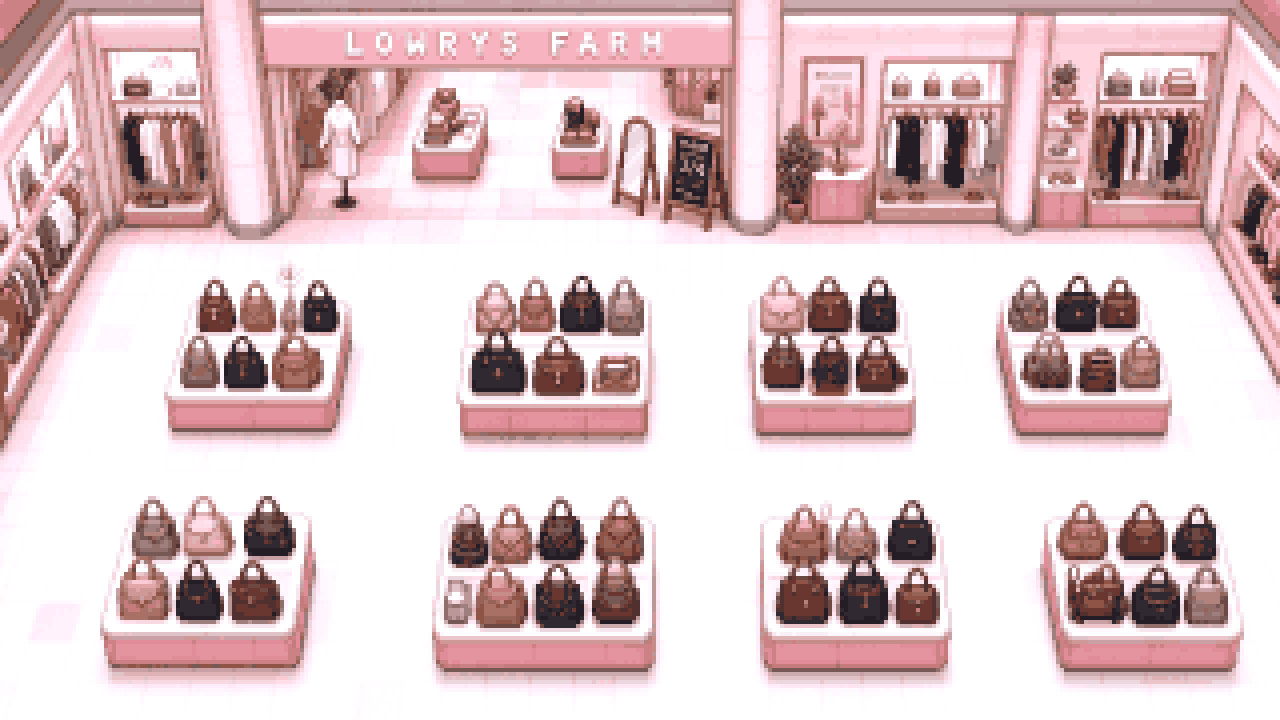
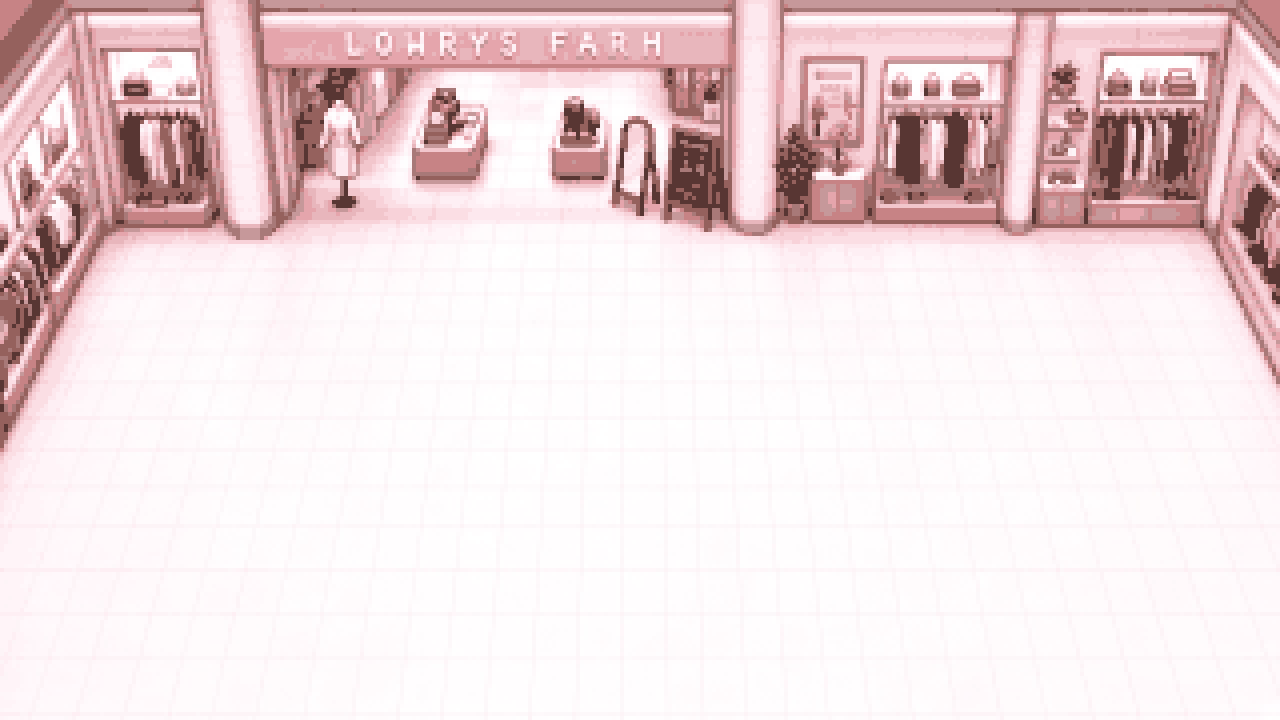
Separate raised furniture layers, add living room, drop plaza duplicate (#13)
- Add living_room.png and wire epilogue party onto the 客廳 map
- Split boutique into empty floor + boutique_shelves.png (one raised object)
- Split yakiniku tables/chairs into yakiniku_furniture.png (one raised object)
- Remove identical big_city_plaza_walkable.png; point plaza at big_city_plaza.png

diff --git a/js/vistas.js b/js/vistas.js
@@ -7,18 +7,22 @@
 import { MAP, tileStyle, tileBottom, tileLeft, wantsGridOverlay } from "./map.js";
 
 const ART = {
-  plaza: "assets/art/scenes/big_city_plaza_walkable.png",
+  plaza: "assets/art/scenes/big_city_plaza.png",
   circus: "assets/art/scenes/pop_circus.png",
   boutique: "assets/art/scenes/boutique_floor.png",
   bbq: "assets/art/scenes/yakiniku_interior.png",
   stairs: "assets/art/scenes/campus_stairs.png",
   bedroom: "assets/art/scenes/bedroom_future.png",
+  living: "assets/art/scenes/living_room.png",
   props: {
     shelfIsland: "assets/art/props/shelf_island.png",
     shelfWall: "assets/art/props/shelf_wall.png",
     bbqTable: "assets/art/props/bbq_table.png",
     chair: "assets/art/props/chair.png",
     displayTable: "assets/art/props/display_table.png",
+    /** Full-map raised furniture layers (all shelves / all tables+chairs). */
+    boutiqueShelves: "assets/art/props/boutique_shelves.png",
+    yakinikuFurniture: "assets/art/props/yakiniku_furniture.png",
   },
   gf: {
     down: ["assets/art/couple/girlfriend/stand_down.png", "assets/art/couple/girlfriend/stand_down_f2.png"],
@@ -113,6 +117,12 @@ function prop(src, className, col, row, scale = 1) {
   return `<img class="prop ${className}" src="${src}" alt="" draggable="false"
     data-col="${col}" data-row="${row}"
     style="${tileStyle(col, row)} --scale:${scale}; z-index:${depthZ(row)}" />`;
+}
+
+/** Full-frame raised furniture layer (1280×720 RGBA), sits above floor / below actors. */
+function layerProp(src, className = "prop--layer") {
+  return `<img class="prop ${className}" src="${src}" alt="" draggable="false"
+    style="left:0; bottom:0; width:100%; height:100%; transform:none; z-index:12" />`;
 }
 
 function wireIdle(root, ms = 520) {
@@ -224,14 +234,9 @@ const builders = {
         return prop(ART.icons[g] || ART.icons.bags, `prop--gift g${i}`, col, row, 0.65);
       })
       .join("");
-    const furniture =
-      prop(ART.props.displayTable, "prop--furn", 8, 9, 1.8) +
-      prop(ART.props.displayTable, "prop--furn", 14, 9, 1.8) +
-      prop(ART.props.displayTable, "prop--furn", 20, 9, 1.8) +
-      prop(ART.props.displayTable, "prop--furn", 11, 12, 1.8) +
-      prop(ART.props.displayTable, "prop--furn", 17, 12, 1.8);
+    // Floor empty; all display shelves are one raised layer object.
     const actors =
-      furniture +
+      layerProp(ART.props.boutiqueShelves, "prop--layer prop--shelves") +
       actor(ART.pass1, "npc", 4, 14, 0.8) +
       actor(ART.bf.down, "hero", 14, 15, 1) +
       actor(ART.gf.down, "hero hero--happy", 17, 15, 1) +
@@ -242,11 +247,8 @@ const builders = {
   },
 
   "shopping-stroll"() {
-    const furniture =
-      prop(ART.props.displayTable, "prop--furn", 8, 10, 1.8) +
-      prop(ART.props.displayTable, "prop--furn", 22, 10, 1.8);
     const actors =
-      furniture +
+      layerProp(ART.props.boutiqueShelves, "prop--layer prop--shelves") +
       actor(ART.pass2, "npc", 23, 13, 0.8) +
       actor(ART.hug, "hero hero--together", 15, 14, 1.35);
     const root = mapShell(ART.boutique, actors, "vista--boutique vista--stroll");
@@ -255,18 +257,9 @@ const builders = {
   },
 
   bbq() {
-    // Empty floor + table/chair props; couple sits in front of a table (higher row).
-    const furniture =
-      prop(ART.props.bbqTable, "prop--furn prop--table", 8, 7, 2.1) +
-      prop(ART.props.bbqTable, "prop--furn prop--table", 16, 7, 2.1) +
-      prop(ART.props.bbqTable, "prop--furn prop--table", 24, 7, 2.1) +
-      prop(ART.props.bbqTable, "prop--furn prop--table", 8, 12, 2.1) +
-      prop(ART.props.bbqTable, "prop--furn prop--table", 24, 12, 2.1) +
-      prop(ART.props.chair, "prop--furn prop--chair", 6, 8, 0.9) +
-      prop(ART.props.chair, "prop--furn prop--chair", 14, 8, 0.9) +
-      prop(ART.props.chair, "prop--furn prop--chair", 22, 8, 0.9);
+    // Empty floor + one raised tables/chairs object; couple sits in front aisle.
     const actors =
-      furniture +
+      layerProp(ART.props.yakinikuFurniture, "prop--layer prop--bbq-set") +
       actor(ART.clerkBbq, "npc npc--clerk", 3, 9, 0.95) +
       actor(ART.pass1, "npc", 28, 10, 0.78) +
       actor([ART.bf.sit], "hero hero--sit", 14, 14, 1.05) +
@@ -329,14 +322,15 @@ const builders = {
   },
 
   epilogue() {
-    return el(`<div class="vista vista--epi">
-      <div class="epi-party" id="epi-party">
-        <div class="party-cast">
-          <img src="${ART.mom.down[0]}" alt="" />
-          <img src="${ART.kid.holdCake}" alt="" />
-          <img src="assets/art/icons/hearts/heart_cake.png" class="party-cake" alt="" />
-        </div>
-      </div>
+    // Living-room map as the party stage, then present/phone overlays.
+    const party =
+      actor(ART.mom.down, "hero epi-mom", 12, 12, 1.15) +
+      actor([ART.kid.holdCake], "hero epi-kid", 16, 12, 1.05) +
+      actor(ART.bf.down, "hero", 20, 13, 1) +
+      actor(ART.gf.down, "hero", 22, 13, 1);
+    const root = mapShell(
+      ART.living,
+      `<div class="epi-party" id="epi-party">${party}</div>
       <div class="epi-present" id="epi-present" hidden>
         <img class="present-hug" src="${ART.hug[1]}" alt="" />
         <div class="phone-back" id="phone-back">
@@ -347,8 +341,11 @@ const builders = {
       <div class="voucher" id="epi-voucher" hidden>
         <p>✦ Apple 兌換券 ✦</p>
         <small>週末有個小驚喜…或許是新手機？</small>
-      </div>
-    </div>`);
+      </div>`,
+      "vista--epi vista--living"
+    );
+    wireIdle(root);
+    return root;
   },
 
   "beach-card"() {

diff --git a/style.css b/style.css
@@ -339,6 +339,29 @@ body {
   pointer-events: none;
 }
 
+.prop--layer {
+  left: 0 !important;
+  bottom: 0 !important;
+  width: 100% !important;
+  height: 100% !important;
+  max-width: none;
+  transform: none !important;
+  object-fit: fill;
+  filter: drop-shadow(0 4px 0 rgba(0, 0, 0, 0.22));
+  pointer-events: none;
+  image-rendering: pixelated;
+  image-rendering: crisp-edges;
+}
+
+.vista--living .map-dim {
+  background: linear-gradient(
+    180deg,
+    rgba(255, 230, 200, 0.1) 0%,
+    transparent 42%,
+    rgba(20, 12, 10, 0.3) 100%
+  );
+}
+
 .prop--island {
   width: calc(88px * var(--scale, 1));
 }
@@ -414,8 +437,7 @@ body {
 .epi-party {
   position: absolute;
   inset: 0;
-  display: grid;
-  place-items: center;
+  pointer-events: none;
   transition: transform 0.9s ease, opacity 0.9s ease;
 }
 

diff --git a/index.html b/index.html
@@ -10,7 +10,7 @@
     <meta name="apple-mobile-web-app-capable" content="yes" />
     <meta http-equiv="Cache-Control" content="no-cache, no-store, must-revalidate" />
     <title>Ann Birthday Game 2026</title>
-    <link rel="stylesheet" href="style.css?v=20261123bright" />
+    <link rel="stylesheet" href="style.css?v=20261124assets" />
   </head>
   <body>
     <main id="stage" class="stage" aria-live="polite">
@@ -92,6 +92,6 @@
       <aside id="debug" class="debug" hidden></aside>
     </main>
 
-    <script type="module" src="js/main.js?v=20261122m"></script>
+    <script type="module" src="js/main.js?v=20261124assets"></script>
   </body>
 </html>

diff --git a/js/audio.js b/js/audio.js
@@ -29,6 +29,7 @@ const VISTA_TRACK = {
   "future-room": "cozy",
   epilogue: "cozy",
   "beach-card": "overall",
+  living: "cozy",
 };
 
 let muted = false;

diff --git a/assets/art/scenes/README.md b/assets/art/scenes/README.md
@@ -19,68 +19,28 @@ All furniture / landmarks must snap to whole tiles. Runtime placement uses `js/m
 | File | Scene |
 |------|--------|
 | `big_city_plaza.png` | Hsinchu Big City night plaza + Christmas |
-| `big_city_plaza_walkable.png` | Same plaza, open walk floor |
-| `yakiniku_interior.png` | BBQ restaurant (style / angle **source of truth**) |
+| `yakiniku_interior.png` | BBQ restaurant floor (tables/chairs are a separate raised layer) |
 | `pop_circus.png` | B1 POP CIRCUS / 星·奇·市 blind-box store |
-| `boutique_floor.png` | Big City 1F accessory boutique |
+| `boutique_floor.png` | Big City 1F accessory boutique **floor only** (shelves separated) |
 | `campus_stairs.png` | Campus courtyard — lower stairs + landing |
 | `bedroom_future.png` | Future bedroom — center bed, right door (finale) |
-| `preview_sheet.png` | 3×2 labeled collage |
+| `living_room.png` | Cozy living room with cake / gifts (epilogue) |
+| `preview_sheet.png` | Collage |
 | `README.md` | This doc |
 
-Furniture (shelves / tables / chairs) lives in `assets/art/props/` and is depth-sorted over empty floors (`pop_circus`, `yakiniku_interior`).
+Raised furniture layers live in `assets/art/props/`:
+
+| Prop | Use |
+|------|-----|
+| `boutique_shelves.png` | All boutique floor islands as **one** raised object |
+| `yakiniku_furniture.png` | All BBQ tables + chairs as **one** raised object |
 
 ## Style rules (match yakiniku)
 
 1. Same 3/4 oblique angle as `yakiniku_interior.png` — not eye-level facade, not one-point aisle.
-2. Floor reads as a neat tile grid; props sit on tile edges.
+2. Floor reads as a neat tile grid; raised layers sit above floor, characters depth-sort by row.
 3. Warm limited palette; nearest-neighbor scale only (no bilinear blur).
 4. Empty of player/NPC characters (sprites are overlaid at runtime).
-
-## Suggested walkable zones (tile coords, origin top-left)
-
-### Plaza (`big_city_plaza*.png`)
-
-| Zone | Approx tiles | Notes |
-|------|----------------|--------|
-| Walk floor | rows 9–17, cols 4–27 | Open plaza |
-| Blocked | tree / Santa left ~cols 1–8, rows 4–12 | Landmark |
-| Blocked | wreath / Santa right ~cols 24–30 | Landmark |
-| Transition | doors ~cols 13–18, row 6–8 | Enter mall |
-
-### Yakiniku
-
-| Zone | Approx tiles | Notes |
-|------|----------------|--------|
-| Aisles | between table rows / south edge | Primary path |
-| Blocked | tables + chairs | Sit / interact |
-| Overlay | copper hoods | Draw above actors |
-| NPC | left counter ~cols 2–5 | Clerk |
-
-### POP CIRCUS
-
-| Zone | Approx tiles | Notes |
-|------|----------------|--------|
-| Aisles | around center island | Walk loops |
-| Blocked | island + wall shelves | Browse |
-| NPC | back shelves / counter | Clerk |
-
-### Boutique
-
-| Zone | Approx tiles | Notes |
-|------|----------------|--------|
-| Lanes | cream tile aisles between islands | Free roam |
-| Blocked | display pedestals | Bag browse |
-| Landmark | LOWRYS FARM back wall | North boundary |
-
-### Campus stairs
-
-| Zone | Approx tiles | Notes |
-|------|----------------|--------|
-| Courtyard | grass + path, south half | Approach |
-| Stairs | center lower flight | Climb |
-| Landing | mid landing top of lower flight | Confession event |
-| Blocked | stone stools, ivy mass | Decor |
 
 ## Pipeline
 

diff --git a/assets/art/props/README.md b/assets/art/props/README.md
@@ -1,13 +1,24 @@
-# Furniture props (depth-sorted)
+# Furniture props (depth-sorted / raised layers)
 
-Transparent Q-pixel props placed on empty floor maps. Runtime `z-index` follows tile row (`js/vistas.js` `depthZ`) so characters in front of shelves/tables draw above them.
+Transparent Q-pixel props placed on empty floor maps.
+
+## Full-map raised layers (preferred)
+
+| File | Use |
+|------|-----|
+| `boutique_shelves.png` | All boutique handbag islands as **one** 1280×720 RGBA object (already raised) |
+| `yakiniku_furniture.png` | All BBQ tables + chairs as **one** 1280×720 RGBA object (hoods stay on scene floor) |
+
+Runtime: `layerProp()` in `js/vistas.js` → CSS `.prop--layer`.
+
+## Single-tile props (still used by POP CIRCUS etc.)
 
 | File | Use |
 |------|-----|
 | `shelf_island.png` | POP CIRCUS center islands |
 | `shelf_wall.png` | POP CIRCUS side wall shelves |
-| `bbq_table.png` | Yakiniku table + grill + hood |
-| `chair.png` | Restaurant chair |
-| `display_table.png` | Boutique handbag pedestal |
+| `bbq_table.png` | Single table + grill (+ hood) source |
+| `chair.png` | Single restaurant chair |
+| `display_table.png` | Single boutique pedestal (legacy) |
 
-Logical ~64×64 → display 256×256 (4× nearest). Anchor feet/base at tile center.
+Logical ~64×64 → display 256×256 (4× nearest) for single-tile props. Anchor feet/base at tile center.
